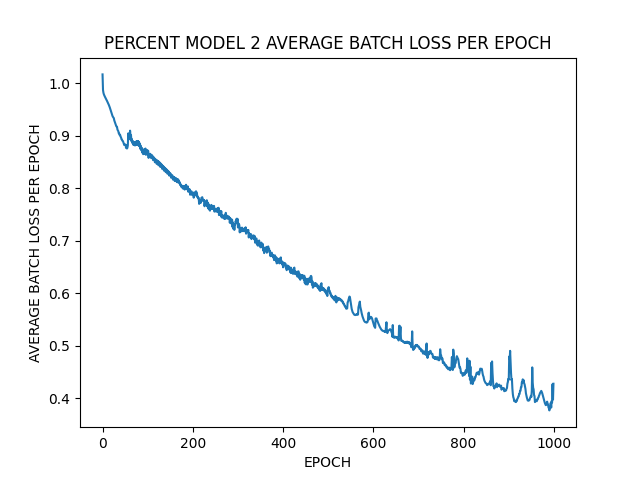
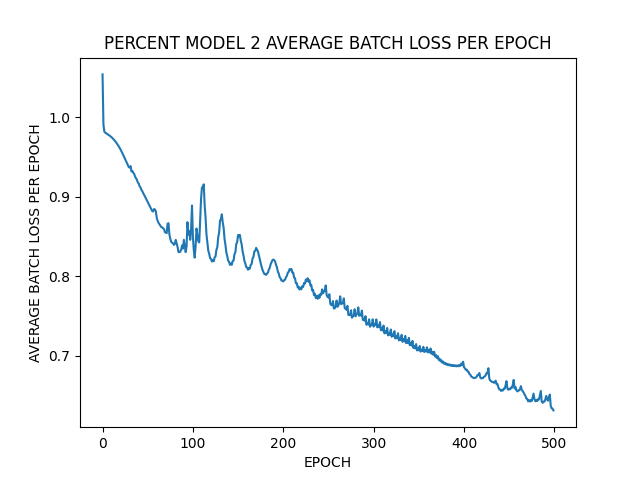
scaled results

diff --git a/main.py b/main.py
@@ -3,22 +3,48 @@ from dataClass import *
 from train_test_eval_funcs import *
 import matplotlib.pyplot as plt
 from sklearn.preprocessing import StandardScaler
+import copy
+
+'''
+TO DO: 
+
+TEST TO MAKE SURE THAT WE ELIMINATE THE FIRST 5 IN UNSCALED Y'S AND NOT THE LAST 5
+JUST WHATEVER DOES BETTER WHEN YOU TEST BOTH ON 1000 EPOCHS
+MAKE SURE YOU CHANGE NOT ONLY THE TRAIN_TST_EVALS FUNCTIONS BUT FOR GRAPGING YOU
+NEED TO ADJUST THEM WHEN YOU PASS IT YOU'LL SEE IT BELLOW YOU PASS THEM IN AS LIKE 
+[UNSCALED_PRICE[5:], UNSCALED_PERCENT[5:]]
+
+MAIN 2 SHOULD CONVER THE PRICES AND THE PERCENTAGES TO UNSCALED VALUES
+BOTH THE PREDICTIONS AND THE ACTUAL VALUES SO WE CAN SEE HOW FAR OFF IT REALLY IS 
+AT A PRICE/PERCENTAGE SCALE THAT IS NOT STANDARDIZED
+DID THIS WHOLE THING WEIRD COULD PROBABLY BE IMPROVED THINK THERE WAS A REASON
+I SCALED EVERYTHING THINK IT SEEMED TO IMPROVE EVERYTHING DURING TESTING BEEN A WHILE DON'T 
+ENTIRLEY REMEMBER BUT 
+'''
 
 def main():
-	epochs = 100
+	epochs = 500
 	training_losses = []
 	predictions = []
 	avg_price_diff = []
 	test_losses = []
-	ys = []
 	params = get_all_model_params()
 	models_and_lr = generate_models(params)
 	learning_rates = [i[1] for i in models_and_lr]
 	models = [i[0] for i in models_and_lr]
 	data_class = DataClass()
-	_, price_train_data, price_test_data, _, percent_train_data, percent_test_data =\
-	data_class.get_all_data()
-	scaler = data_class.get_scaler()	
+
+	price_train_data,price_test_data = data_class.get_price_data()
+	unscaled_price,scaler_price = data_class.get_unscaled_data()
+	unscaled_price = copy.deepcopy(unscaled_price)
+	scaler_price = copy.deepcopy(scaler_price)
+
+	percent_train_data, percent_test_data = data_class.get_percent_data()
+	unscaled_percent,scaler_percent = data_class.get_unscaled_data()
+	unscaled_percent = copy.deepcopy(unscaled_percent)
+	scaler_percent = copy.deepcopy(scaler_percent)
+	
+	#scaler = data_class.get_scaler()	
 	price = "PRICE MODEL "
 	percent = "PERCENT MODEL "
 	model_labels = []
@@ -29,26 +55,28 @@ def main():
 	
 	price_model = 1
 	percent_model = 2
+
 	for i in range(len(models)):
 		if i%2 == 0: 
-			training_losses.append(train(models[i], price_train_data,epochs))
-			preds,Y,loss= test(models[i], price_test_data)
-			ys.append(Y)
+			training_losses.append(train(models[i], price_train_data,epochs,.01))
+			preds,loss= test(models[i], price_test_data,scaler_price,unscaled_price)
 			predictions.append(preds)
 			test_losses.append(loss)
 			
 			price_model+=1
 		else:
 			#training_losses.append(train(models[i], percent_train_data,epochs,learning_rates[i]))
-			training_losses.append(train(models[i], percent_train_data,epochs))
+			training_losses.append(train(models[i], percent_train_data,epochs,.001))
 			#preds,Y,loss, diff = test_for_preds(models[i], price_test_data,scaler)
-			preds,Y,loss = test_for_preds(models[i], percent_test_data,scaler)
-			ys.append(Y)
+			preds,loss = test(models[i], percent_test_data,scaler_percent,unscaled_percent)
 			predictions.append(preds)
 			test_losses.append(loss)
 			percent_model +=1
 	plot_train_loss(model_labels,training_losses,True)
-	plot_test_results(model_labels, predictions,ys,True)
+	'''
+	NOTE THAT IF IT'S NOT THE FIRST 5 even though i'm PRETTY SURE IT IS WE WILL HAVE TO CHANGE THIS
+	'''
+	plot_test_results(model_labels,predictions,[unscaled_price[5:],unscaled_percent[5:]],True)
 	plt.show()
 
 
@@ -68,7 +96,8 @@ def plot_test_results(title, preds,actual,save_plot=False):
 		plt.figure()
 		x_axis = [point for point in range(len(i))]
 		plt.scatter(x_axis,i,color='red',marker='o', label="PREDICTED PRICE")
-		plt.scatter(x_axis,actual[x],color='blue',marker='x',label="REAL PRICE")
+		temp = actual[0] if x%2 == 0 else actual[1]
+		plt.scatter(x_axis,temp,color='blue',marker='x',label="REAL PRICE")
 		plt.xlabel('INDEX/DAY')
 		plt.ylabel("PRICE")
 		plt.title(f"{title[x]} PREDICTIONS VS ACTUAL PRICE")

diff --git a/dataClass.py b/dataClass.py
@@ -5,6 +5,12 @@ from torch.utils.data import DataLoader, TensorDataset
 from sklearn.preprocessing import StandardScaler
 from sklearn.model_selection import KFold
 
+'''
+IDEALLY I WOULD EDIT THE Y's at the end when i put them in the data loader 
+And probably scale them there as well so I don't have to do it in my main function but I 
+am currently not doing that
+'''
+
 class DataClass:
     """
     Takes the following arguments (they have default values):
@@ -53,11 +59,7 @@ class DataClass:
         return self.df
     
     def get_unscaled_data(self):
-        if self.unscaled_ys:
-            return self.unscaled_ys, self.scaler
-        else:
-            print("Must call get_percent_data first")
-            return None
+        return self.unscaled_ys, self.scaler
         
     def get_percent_val_data(self):
         X,y,= self.percent_change_data()
@@ -82,10 +84,8 @@ class DataClass:
     
     def get_price_val_data(self):
         X,y= self.get_price_change()
-        X_train, X_test, y_train, y_test, scaler, unscaled_y =\
+        X_train, X_test, y_train, y_test, unscaled_y =\
         self.train_test_split_scale(X,y)
-        
-        self.scaler = scaler
         self.unscaled_ys = unscaled_y
         
         X_train, y_train = self.put_days_together(X_train,y_train)
@@ -96,10 +96,9 @@ class DataClass:
     
     def get_price_data(self):
         X,y= self.get_price_change()
-        X_train, X_test, y_train, y_test, scaler, unscaled_y =\
+        X_train, X_test, y_train, y_test, unscaled_y =\
         self.train_test_split_scale(X,y)
         
-        self.scaler = scaler
         self.unscaled_ys = unscaled_y
         
         X_train, y_train = self.put_days_together(X_train,y_train)
@@ -141,6 +140,7 @@ class DataClass:
         y_test = y[train_size:]
         feature_scaler.fit(X_train)
         target_scaler.fit(y_train.reshape(-1,1))
+        self.scaler = target_scaler
         X_train = feature_scaler.transform(X_train)
         X_test = feature_scaler.transform(X_test)
         y_train = target_scaler.transform(y_train.reshape(-1,1))
@@ -150,7 +150,6 @@ class DataClass:
     def put_days_together_percentage(self, X, y):
         xs = np.array([X[i:i+self.num_days] for i in range(len(X)-self.num_days)])
         ys = np.array([y[i+self.num_days-1] for i in range(len(y)-self.num_days)])
-        #return torch.tensor(xs, dtype=torch.float32), torch.tensor(ys, dtype=torch.float32)
         return xs, ys
     
     
@@ -209,6 +208,7 @@ class DataClass:
 
         feature_scaler.fit(X_train)
         target_scaler.fit(y_train.reshape(-1,1))
+        self.scaler = target_scaler
         X_train = feature_scaler.transform(X_train)
         X_test = feature_scaler.transform(X_test)
         y_train = target_scaler.transform(y_train.reshape(-1,1))
@@ -217,7 +217,7 @@ class DataClass:
         X_train = np.hstack((y_train, X_train))
         X_test = np.hstack((y_test.reshape(-1,1), X_test))
 
-        return X_train, X_test, y_train, y_test, target_scaler, y[train_size:]
+        return X_train, X_test, y_train, y_test, y[train_size:]
     
     def put_days_together(self, X, y):
         xs = np.array([X[i:i+self.num_days] for i in range(len(X)-self.num_days)])

diff --git a/train_test_eval_funcs.py b/train_test_eval_funcs.py
@@ -5,8 +5,16 @@ import pandas as pd
 from torch.utils.data import DataLoader, TensorDataset
 from sklearn.preprocessing import StandardScaler
 
+'''
+NOTES:
+BECAUSE YOU NEED 5 DAYS OF DATA AND BECAUSE YOU DID SOMETHING STUPID IN THE DATA CLASS
+YOU HAVE TO (COULD NOT HAVE TO COULD JUST USE SCALED Y'S) PASS THE UNSCALED Y'S AND 
+THEN CUT OFF THE FIRST 5 BECAUSE YOU TAKE 5 DAYS WORTH OF DATA TO PREDICT THE NEXT DAY
+THIS SHOULD PROBABLY BE CHANGED SO IT'S HANDLED IN THE DATA CLASS
+'''
+
 def train(model, data, epochs, lr=.001):
-	avg_epoch_loss = [] #don't append anything to this currently
+	avg_epoch_loss = [] 
 	torch.manual_seed(42)
 	loss_fn = nn.MSELoss()
 	optimizer = torch.optim.Adam(model.parameters(),lr=lr)
@@ -14,58 +22,34 @@ def train(model, data, epochs, lr=.001):
 	for epoch in range(epochs):
 		batch_loss = []
 		for X, y in data:
+			#y = torch.tensor(y)
 			optimizer.zero_grad()
 			temp = model(X)
-			#preds = torch.reshape(model(X), y.shape)
 			preds = model(X).reshape(y.shape)
 			loss = loss_fn(preds,y)
 			batch_loss.append(loss)
 			loss.backward()
 			optimizer.step()
-		avg_epoch_loss.append(sum(batch_loss)/len(batch_loss))
+		avg_epoch_loss.append(sum([abs(i) for i in batch_loss]) / len(batch_loss))
 	avg_epoch_loss = [i.item() for i in avg_epoch_loss]
 	return avg_epoch_loss
 
 
-def test(model, test_data):
+def test(model,test_data,scaler,Y):
+	Y = torch.tensor(Y[5:]).reshape(-1,1)
 	with torch.inference_mode():
 		loss_fn = nn.MSELoss()
-		for X,y in test_data:
-			preds = model(X).reshape(y.shape)
-			test_loss = loss_fn(preds,y)
-	#return preds.numpy(), y.numpy(), test_loss.item(), eval_prct_diff(preds,y)
-	return preds.numpy(), y.numpy(), test_loss.item()
+		for X,_ in test_data:
+			preds = model(X)
+			preds = convert(scaler,preds)
+			test_loss = loss_fn(preds.reshape(Y.shape),Y)
+	return preds.numpy(),test_loss.item()
 
-def test_for_preds(model,test_data,scaler):
-	with torch.inference_mode():
-		loss_fn = nn.MSELoss()
-		for X,y in test_data:
-			#preds = torch.reshape(model(X), y.shape)
-			preds = model(X).reshape(y.shape)
-			#preds = torch.reshape(model(X), y.shape)
-			#preds,Y = convert(scaler,preds,y)
-			test_loss = loss_fn(preds,y)
-	#return preds.numpy(), y.numpy(),test_loss.item(), eval_prct_diff(preds,y)
-	return preds.numpy(), y.numpy(),test_loss.item()
-
-'''
-def eval_prct_diff(predictions, actual):
-	return ((predictions - actual) / actual) * 100
-'''
-
-'''
-ERROR:
-Reshape your data either using array.reshape(-1, 1) 
-if your data has a single feature or array.reshape(1, -1) if it contains a single sample.
-'''
-def convert(scaler, predictions,X):
+def convert(scaler, predictions):
 	numpied = predictions.numpy()
-	#may have to transform the data 
 	unscaled_preds = scaler.inverse_transform(predictions.reshape(-1,1))
-	unscaled_target = scaler.inverse_transform(X.reshape(-1,1))
 	back_to_torch = torch.from_numpy(unscaled_preds)
-	back_to_torch_X = torch.from_numpy(unscaled_target)
-	return back_to_torch,back_to_torch_X
+	return back_to_torch
 
 
 

diff --git a/README.md b/README.md
@@ -1,13 +1,15 @@
 # SUMMARY
-Predict tommorows BTC price and or the percent change in the price. Given 5 days (this can be changed in
-the code to add more days) predict the price change/price of Bitcoin. Uses 10 features that are historical 
+Predict tommorows BTC price and or the percent change in the price given 5 days (this can be changed in
+the code to add more or less days) of financial features. Uses 10 features that are historical 
 financial data about bitcoin which i have taken from https://messari.io/report/messari-metrics.
 Graph of incomplete results (see Note) can be found in the graphs_results folder.
 # NOTE:
-Not entirley finished waiting
-on getting the results of hyperparamiters so results are not optimal. Also results/predictions
-have not been rescaled 
-
+Not entirely finished waiting still
+on getting the results of hyperparamiters so results are not optimal. 
+Current results based on innacuarte params and for perdiction models used a learning rate of .001 and 
+for pure price predictions used a learning rate of .01.
+Graphs/results are the from running for 500 epochs.
+graphs_results folder contains current predictions and the average loss per batch for each epoch
 # FILES
 
 | File                     | Description                                                                                          |
@@ -16,21 +18,40 @@ have not been rescaled
 | [dataClass.py](dataClass.py) | Class to store and work with data, breaking it into prices and statistics. Handles data scaling, batching, and prediction day configuration. |
 | [get_best_models.py](get_best_models.py) | Helper function to determine the best model. |
 | [main.py](main.py)       | Run file to get results (please note that optimal hyperparameters are not available yet).         |
-| [params.json](params.json) | JSON file containing the best hyperparameters for the models. |
+| [params.json](params.json) | JSON file containing the best hyperparameters for the models. (NOTE NOT ACCURATE YET)|
 | [percent_pred_models.py](percent_pred_models.py) | Contains all 4 models that predict the next day's percent change in price. |
 | [price_pred_models.py](price_pred_models.py) | Contains all 4 models that predict the next day's price. |
 | [train_test_eval_funcs.py](train_test_eval_funcs.py) | Functions called by the main script to train and test the models. |
 | [validation_functions.py](validation_functions.py) | Functions used for validation purposes. |
 | [validation_main.py](validation_main.py) | Run file for obtaining hyperparameters for all 4 models. |
-| [main2.py](main2.py)     | Currently the same as `main.py`, but it will become the main function once more features are added. |
 | [TODO.txt](TODO.txt)     | A file containing a to-do list and notes on what needs to be done. |
 | [graphs_results](graphs_results) | Directory containing graphs and results (unscaled and currently not the best versions). |
 
-# HOW TO RUN
-main or main2 can currently be run if you would like to run the file yourself.
+# HOW TO RUN/Dependencies
+## DEPENDENCIES
+### PYTORCH
+### SKLEARN
+### PANDAS
+### NUMPY
+### PANDAS 
+
+USES PYTHON3
+(Sorry i'm a 'data scientist' which means i just use libraries all day.) 
+SIMPLY RUN MAIN TO REPLICATE RESULTS
 
 # TO-DO:
-1. Rescale data
-2. Finish getting optimal hyper params
-3. Add more visualization
-4. Post results 
+1. Finish getting optimal hyper params
+2. Add more visualization
+3. Post results 
+4. Refactor my DataClass so I don't have to manually rescale
+5. Refactor to allow for easier customization whether that be to add and or reduce features
+or increases the number of days used to predict the next day
+6. Record results of predicting tomorows price predictions see how much money I would have 
+lost/gained if I pulled out my investments on predictions of it
+going down/vs putting money back in when I preict it going up
+7. Combine all models and predictions weighing it by the accuracy (possibly see what model is best at predicting 
+large/small changes and weight it using that) and essentially combine the predictions to make a more 
+informed decision
+8. Stop training when learning rate stops moving and or drops below a certain threshold
+
+
